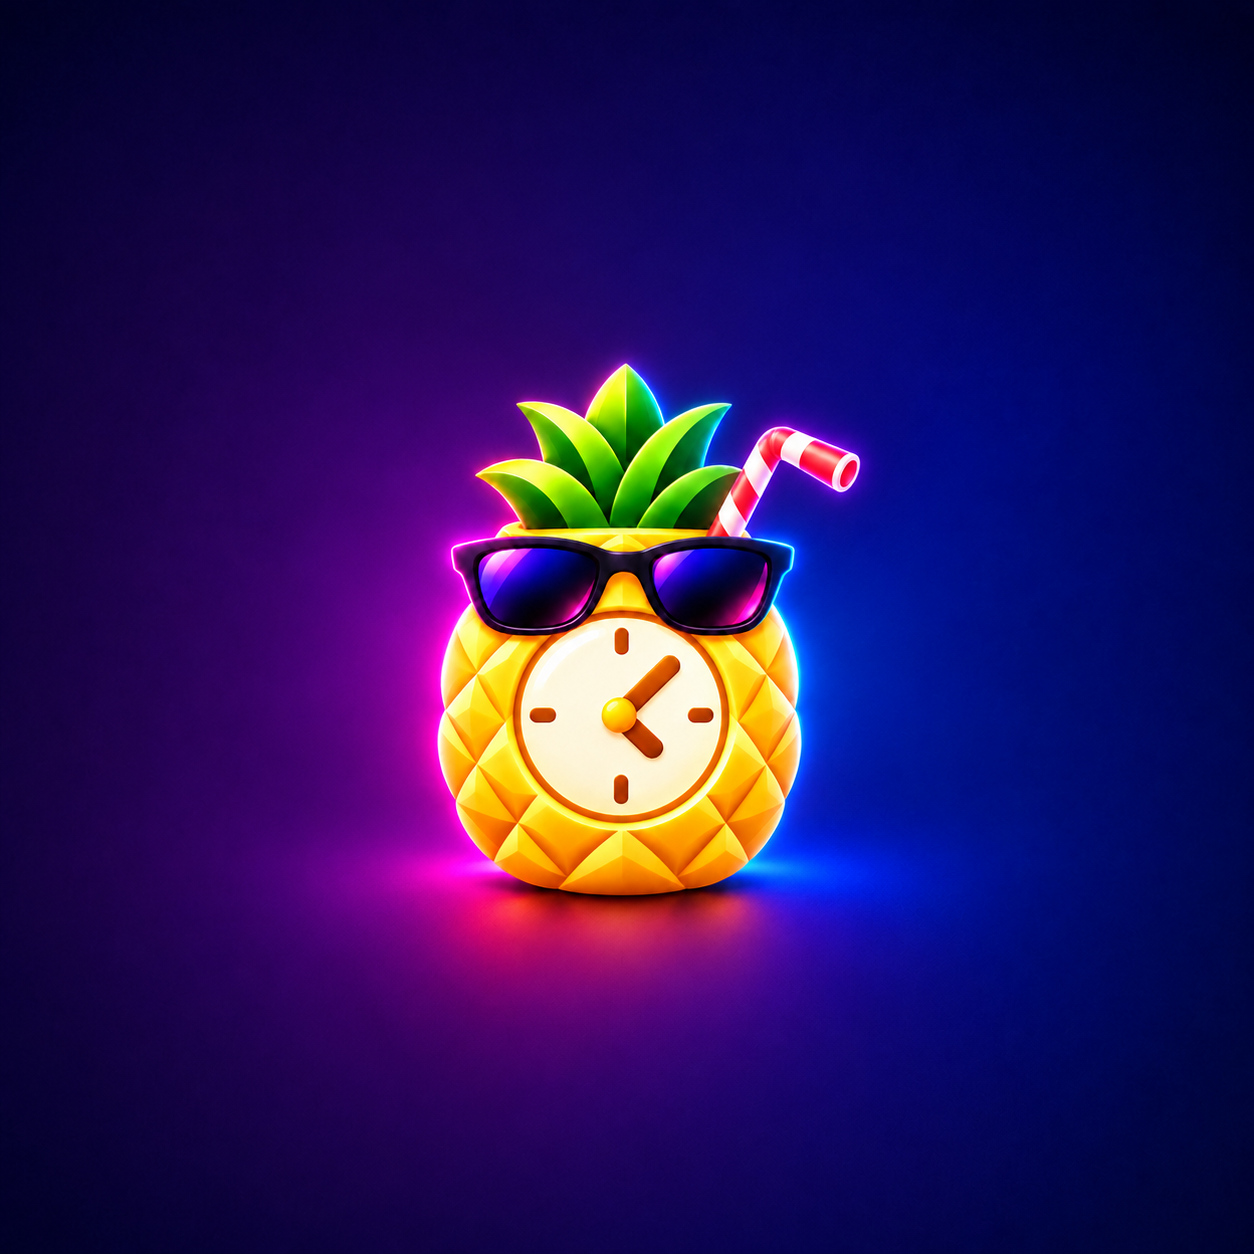
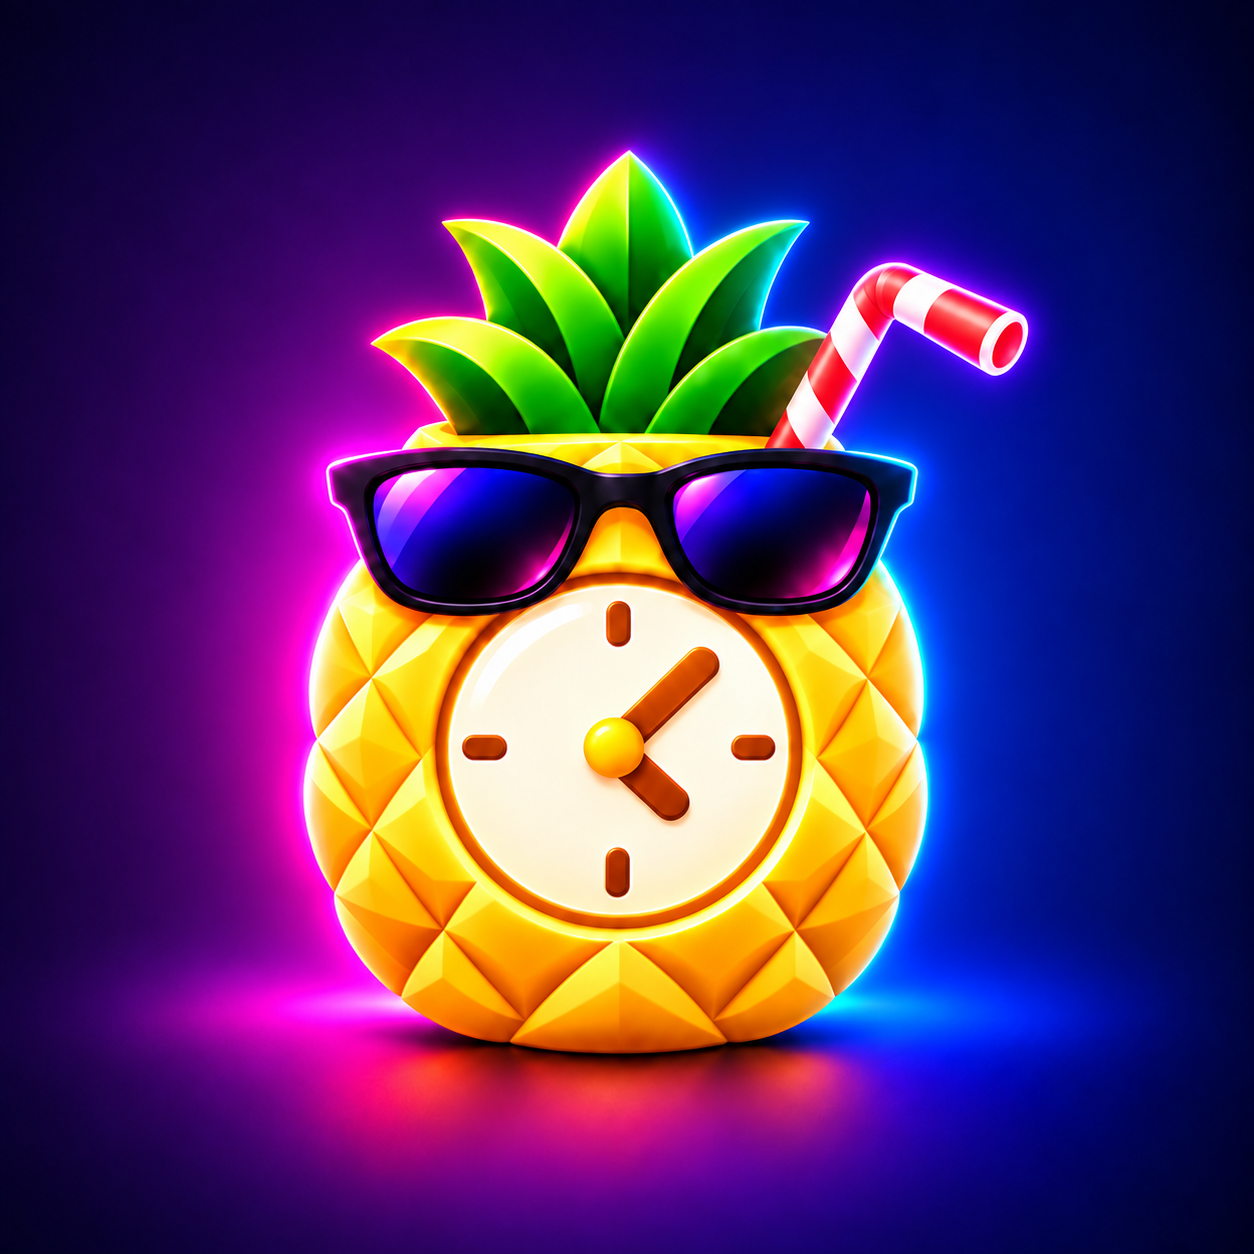
fix: amplia abacaxi no ícone adaptativo Android

diff --git a/sw.js b/sw.js
@@ -1,5 +1,5 @@
 const APP_VERSION = "2.1.18";
-const CACHE_NAME = "funtime-v2-1-18";
+const CACHE_NAME = "funtime-v2-1-18-icons-2";
 const BACKGROUND_CACHE_NAME = "funtime-bg-v1";
 const SHARE_IMPORT_CACHE_NAME = "funtime-share-target-v1";
 const SHARE_IMPORT_REQUEST_PATH = "./__shared-drinks-import__";
@@ -26,7 +26,7 @@ const APP_SHELL = [
   "./manifest.webmanifest",
   "./icons/icon-192-v2.png",
   "./icons/icon-512-v2.png",
-  "./icons/icon-maskable-512-v2.png",
+  "./icons/icon-maskable-512-v2.png?rev=2",
   "./icons/apple-touch-icon-v2.png",
   "./icons/favicon-32-v2.png"
 ];

diff --git a/DEVELOPMENT.md b/DEVELOPMENT.md
@@ -2388,3 +2388,11 @@ A página pública pede um código de acesso antes de mostrar o botão ou as ori
 É apenas uma barreira visual: código e manifest continuam públicos, e a instalação pelo menu do navegador não é bloqueada. Nenhum dado privado ou armazenamento é acessado pelo desbloqueio. App, boot, rodapés e cache alinhados a 2.1.18; DATA_VERSION 11 e política 1.0.2 preservados.
 
 Validação local: sintaxe de app.js/sw.js, diff e 24 testes de install/receiver/transition/ui aprovados. Cobertura de senha parcial/incorreta/correta, prompt antes/depois da liberação, orientação sem prompt, recarga simulada e instalação detectada. Aparência em navegador, instalação real e celular não testados. Commit e push solicitados.
+
+## Ícone Android — revisão local de 11/09/2026
+
+Matriz funtime-maskable-master-v2.png e exportação icon-maskable-512-v2.png atualizadas: personagem ampliado de aproximadamente 43% para 72% da altura. Edição pela ferramenta integrada de imagens, preservando o conceito existente. Prompt: ampliar o personagem, conservar cores, relógio, óculos, canudo e fundo contínuo; manter o desenho dentro do círculo central de diâmetro 80%. Refinamento final: reduzir 6% em relação à primeira saída e deslocar 2% para baixo.
+
+Manifest e precache usam icon-maskable-512-v2.png?rev=2; cache funtime-v2-1-18-icons-2 distingue a revisão de assets. Versão funcional 2.1.18 e DATA_VERSION preservados. Commit e push para funtime/main solicitados em 11/09/2026.
+
+Validação: PNG RGB opaco 512×512, caminhos dos ícones do manifest existentes, inspeção visual do recorte circular mínimo de 80% (personagem inteiro), node --check app.js, node --check sw.js e git diff --check aprovados. Instalação, atualização do ícone no launcher e celular real não testados; atualização dos metadados depende do navegador/sistema.
